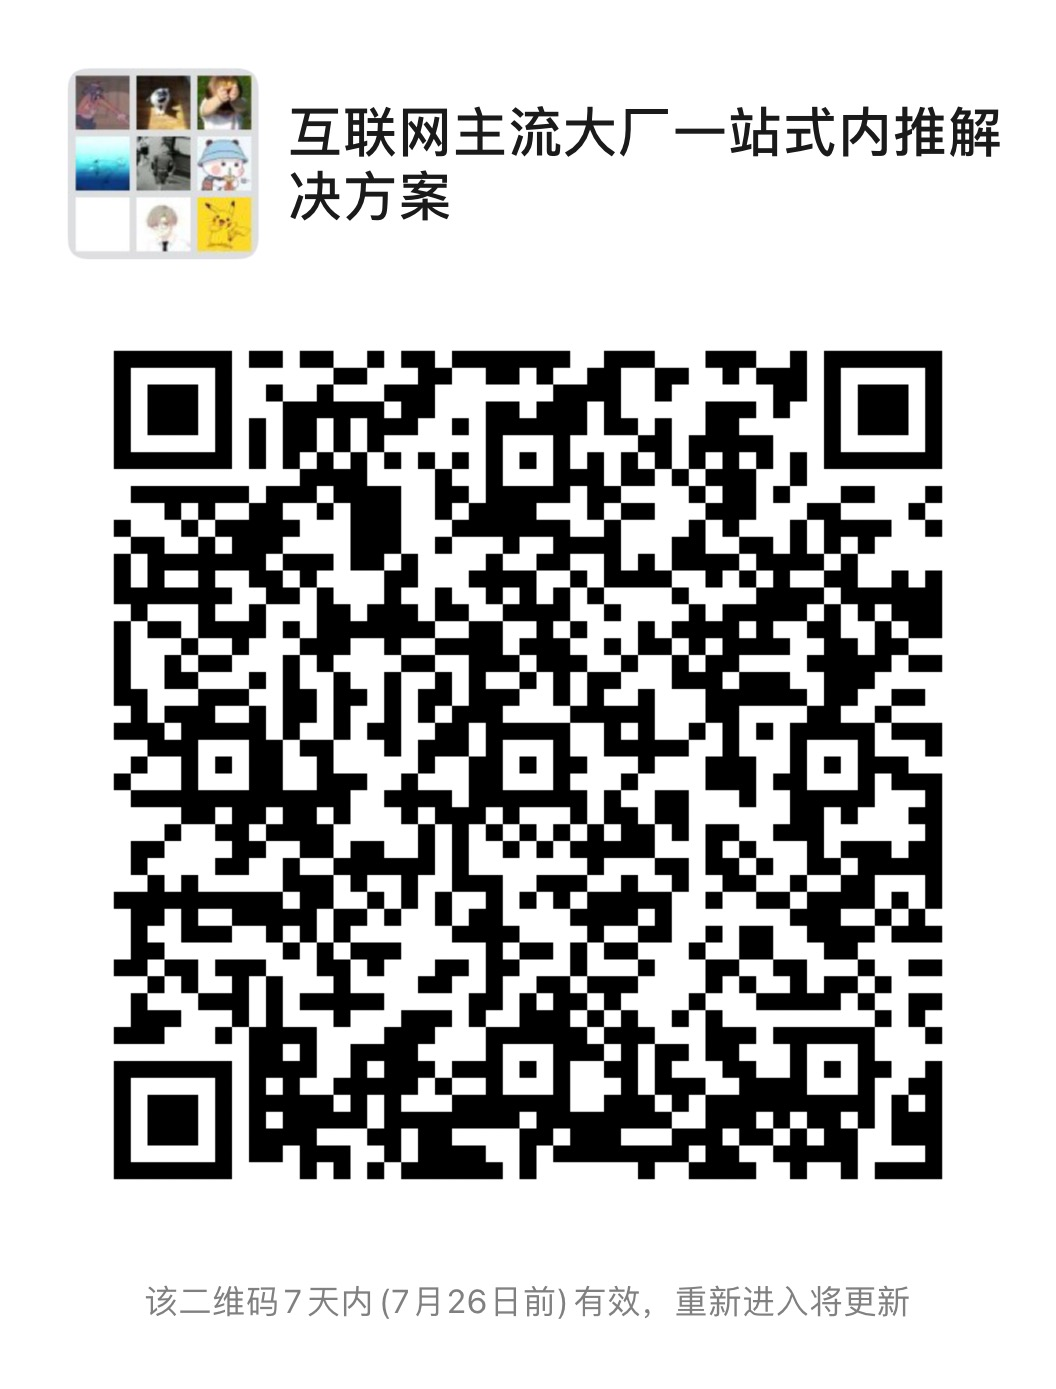
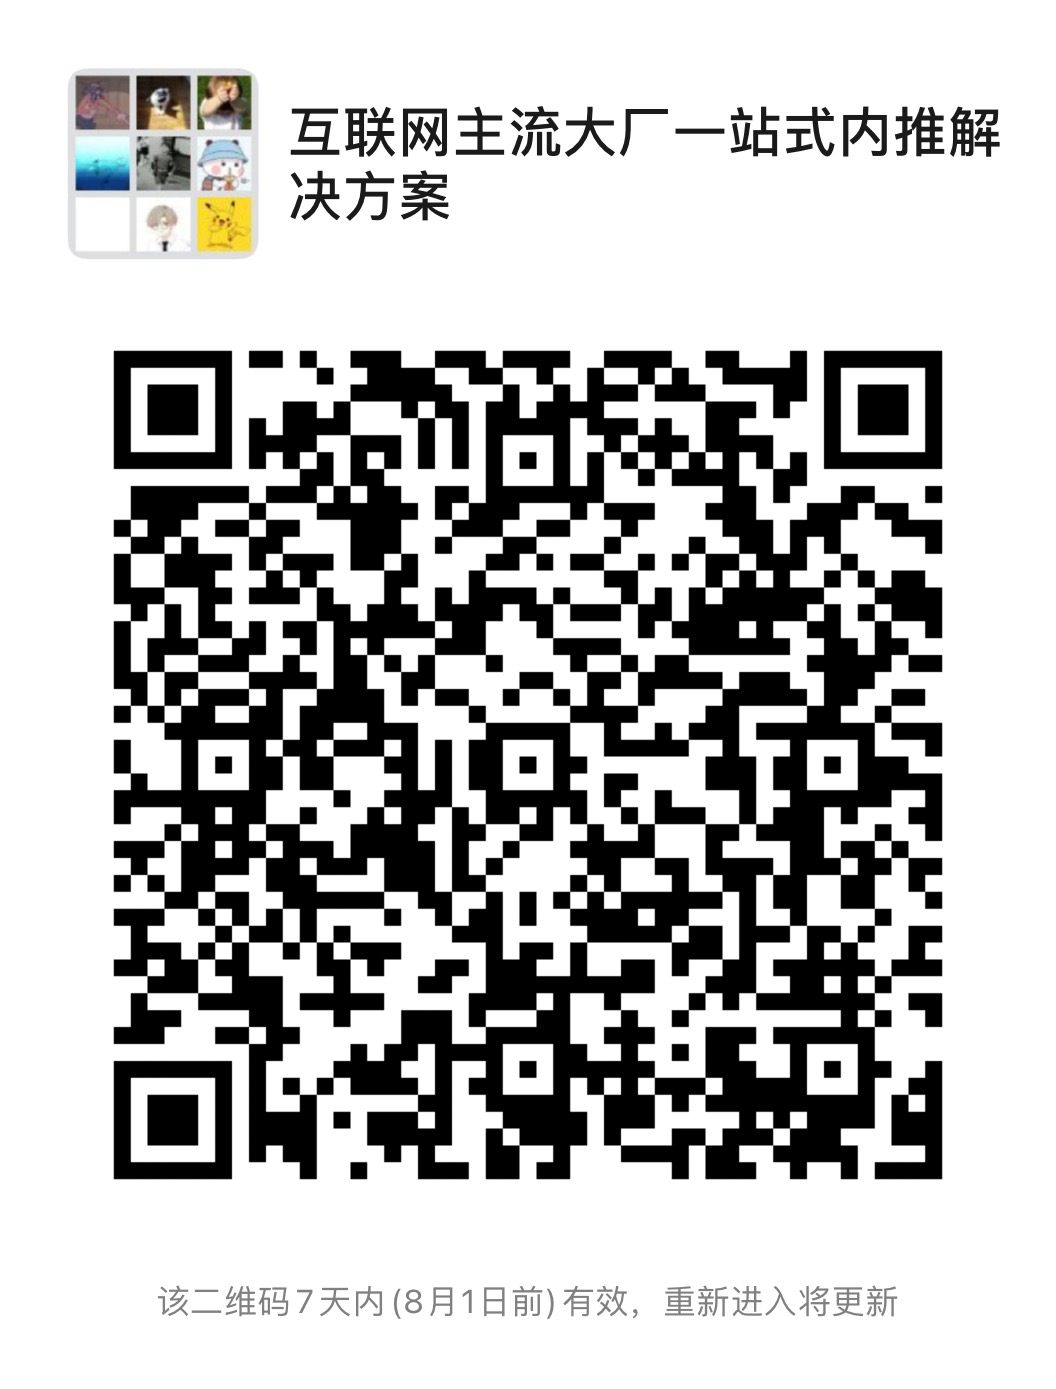
uodate QRcode

diff --git a/xinjiang.md b/xinjiang.md
@@ -73,7 +73,8 @@ D9： 乌鲁木齐→回家
 * 可以准备一双拖鞋（长时间坐车）；   
 * 带点现金；   
 * 要喝热水的记得带保温杯；   
-* 其它常规药品（比如感冒药、健胃消食片、布洛芬、双黄连、红霉素软膏 还有百多邦软膏等，晕车药可以视自己情况自带；欢迎补充）   
+* 其它常规药品（比如感冒药、健胃消食片、布洛芬、双黄连、红霉素软膏 还有百多邦软膏等，晕车药可以视自己情况自带；欢迎补充;   
+* 多辆车的话，还需要对讲机  
 
 
 ## **景点建议：**（https://zhuanlan.zhihu.com/p/377801244）
